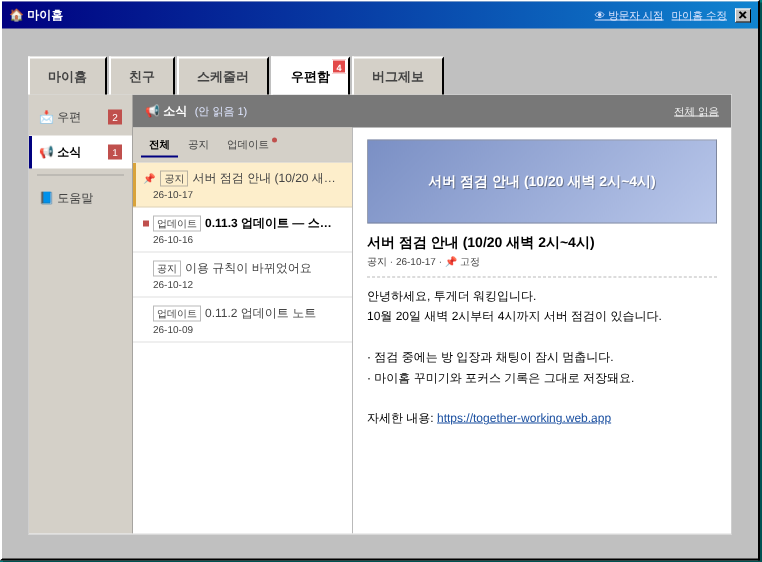
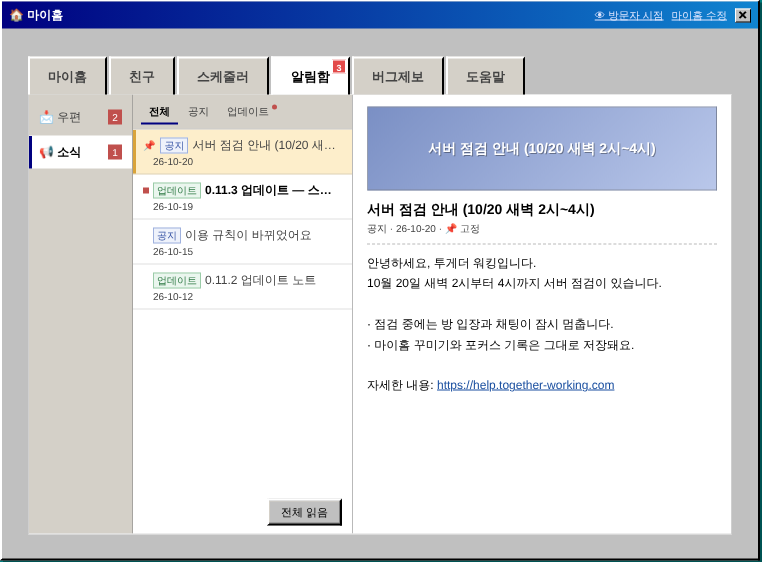
docs(help): 도움말 7편 알림함 그림을 지금 화면으로 · 6 · 7편 맨 위 배너 그림 빼기 (#453)
* docs(help): 도움말 7편 알림함 그림을 지금 화면으로 · 6 · 7편 맨 위 배너 그림 빼기

- hosting/help/img/7/05.png · 06.png: 알림함 우편 · 소식 칸을 지금 앱(탭 이름 «알림함» · «도움말» 탭 · 아래 [전체 읽음] 버튼 · 도움말 칸 없음)으로 다시 찍음
- hosting/help/7.html: 두 그림 설명에 아래 [전체 읽음] 버튼을 적음 · 맨 위 «투게더워킹 튜토리얼» 배너 그림(투비 원본) 뺌
- hosting/help/6.html: 맨 위 «투게더워킹 튜토리얼» 배너 그림(투비 원본) 뺌

* docs(help): 7편 소식 그림 — 탭 배지를 왼쪽 숫자 합과 맞추고 예시 링크를 우리 도메인으로

- hosting/help/img/7/06.png: 소식 글을 연 뒤 탭 배지를 다시 세어(3 = 우편 2 + 소식 1) 찍음 · 예시 공지 본문 링크 together-working.web.app → help.together-working.com

---------

diff --git a/hosting/help/7.html b/hosting/help/7.html
@@ -15,7 +15,6 @@
 <header class="bar"><a href="/">📘 투게더워킹 도움말</a></header>
 <main>
 <h1>7. 마이홈</h1>
-<figure class="narrow"><img src="https://image.aladin.co.kr/Tobe/Note/292NY7/94347E/639227726485345430_0.png" loading="lazy" alt=""></figure>
 <p>▼ 메뉴의 <b>🏠 마이홈</b>이나 <b>F4</b>로 열어요. 탭은 <b>마이홈 · 친구 · 스케줄러 · 알림함 · 버그제보 · 도움말</b> 여섯 개예요.</p>
 
 <h2>마이홈</h2>
@@ -110,8 +109,8 @@
 
 <h2>알림함</h2>
 
-<figure class="narrow"><img src="/img/7/05.png" loading="lazy" alt="우편"><figcaption>📩 우편 — 카드형 · [보기] · 읽은 우편 지우기 (내용은 예시)</figcaption></figure>
-<figure class="narrow"><img src="/img/7/06.png" loading="lazy" alt="소식"><figcaption>📢 소식 — 전체 · 공지 · 업데이트, 📌 고정 글은 맨 위</figcaption></figure>
+<figure class="narrow"><img src="/img/7/05.png" loading="lazy" alt="우편"><figcaption>📩 우편 — 카드형 · [보기] · 아래 [전체 읽음] · [읽은 우편 지우기] (내용은 예시)</figcaption></figure>
+<figure class="narrow"><img src="/img/7/06.png" loading="lazy" alt="소식"><figcaption>📢 소식 — 전체 · 공지 · 업데이트, 📌 고정 글은 맨 위 · 아래 [전체 읽음] (내용은 예시)</figcaption></figure>
 <p>왼쪽 메뉴가 두 칸이에요.</p>
 <ul>
   <li><b>📩 우편</b> — 개인 우편, 버그 제보 답변, 이벤트 보상, 라이선스 키(누르면 복사) 등. 아래 <b>[읽은 우편 지우기]</b>.</li>

diff --git a/hosting/help/6.html b/hosting/help/6.html
@@ -15,7 +15,6 @@
 <header class="bar"><a href="/">📘 투게더워킹 도움말</a></header>
 <main>
 <h1>6. 워킹룸 &amp; 투게더룸</h1>
-<figure class="narrow"><img src="https://image.aladin.co.kr/Tobe/Note/272S47/XYA499/639232871445434864_0.png" loading="lazy" alt=""></figure>
 <h2>방 만들기</h2>
 
 <p>런처의 <b>[방 만들기 / 참여하기]</b>, 또는 게임 실행 중 <b>설정(F1) › 방 만들기/참여하기 › [방 만들기 (코드 생성)]</b>을 누르면 방 만들기 창이 열려요.</p>
